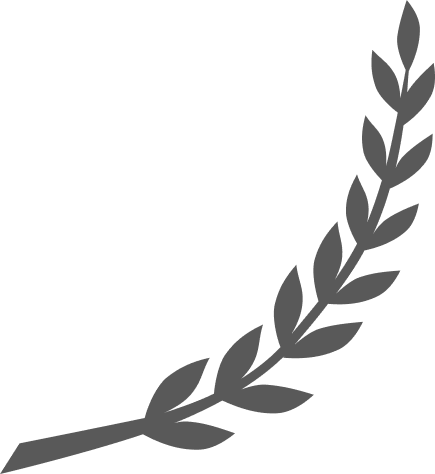
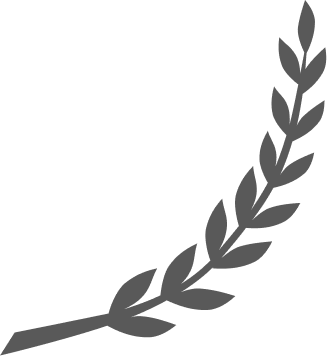
UI

diff --git a/RootNomicsGame/UI/HUD.cs b/RootNomicsGame/UI/HUD.cs
@@ -3,6 +3,7 @@ using Haiku.Audio;
 using Haiku.MathExtensions;
 using Haiku.MonoGameUI;
 using Haiku.MonoGameUI.Layouts;
+using Haiku.MonoGameUI.LayoutStrategies;
 using Microsoft.Xna.Framework;
 using Newtonsoft.Json.Linq;
 using RootNomicsGame.Simulation;
@@ -14,6 +15,7 @@ using System.Text;
 using System.Threading.Tasks;
 using TexturePackerLoader;
 using TexturePackerMonoGameDefinitions;
+using static System.Net.Mime.MediaTypeNames;
 
 namespace RootNomicsGame.UI
 {
@@ -119,19 +121,19 @@ namespace RootNomicsGame.UI
                 && state.TotalWealth <= 0)
             {
                 ShowBadModalOptions(
-    "Disaster! You passed on and all your plants are dead. Your family is left destitute, your remains thrown to the dogs and your scion sold to the poorhouse.",
+    "Disaster!\n\n You passed on and all your plants are dead. Your family is left destitute, your remains thrown to the dogs and your scion sold to the poorhouse.\n\n",
     new ModalAction("Noooooo!!!", quit));
             }
             else if (playerPanel.Health <= 0)
             {
                 ShowBadModalOptions(
-                    "You passed on. Your remains decompose into the earth, sustaining the roots of the plants you so dearly love. Will your scion continue your legacy?",
+                    "You passed on.\n\n Your remains decompose into the earth, sustaining the roots of the plants you so dearly love.\n\n Will your scion continue your legacy?\n\n",
                     new ModalAction("Yes", restart), new ModalAction("No", quit));
             }
             else if (state.TotalWealth <= 0)
             {
                 ShowBadModalOptions(
-                    "All your plants have died. Try again?",
+                    "All your plants have died.\n\n Try again?\n\n",
                     new ModalAction("Yes", restart), new ModalAction("No", quit));
             }
             else
@@ -141,7 +143,7 @@ namespace RootNomicsGame.UI
                 if (turnCount > 16)
                 {
                     ShowModalOptions(
-    "Congratulations! You cheated death and your garden is the talk of the town! Relive the glory?",
+    "Congratulations!\n\n You cheated death and your garden is the talk of the town!\n\n Relive the glory?\n\n",
     new ModalAction("Yes", restart), new ModalAction("No", quit));
                 }
             }
@@ -164,7 +166,25 @@ namespace RootNomicsGame.UI
         {
             LinearLayout dialog = CreateModalOptions(message, modalActions);
 
-            ShowDialog(dialog, UITextureAtlas.ModalBackground);
+            var containerFrame = new Rectangle(0, 0, 1080, 768);
+            var topLeftFrame = new Rectangle(0, 0, 327, 356);
+            var bottomRightFrame = new Rectangle(1080 - 327, 768 - 356, 327, 356);
+
+            var container = new Layout(containerFrame);
+            var topLeft = new Panel(topLeftFrame)
+            {
+                Texture = uiTextureAtlas.Sprite(UITextureAtlas.IconWreathTopLeft),
+            };
+            var bottomRight = new Panel(bottomRightFrame)
+            {
+                Texture = uiTextureAtlas.Sprite(UITextureAtlas.IconWreathBottomRight),
+            };
+
+            container.AddChild(topLeft);
+            container.AddChild(bottomRight);
+            container.AddChild(dialog);
+            dialog.CenterInParent();
+            ShowDialog(container, UITextureAtlas.ModalBackground);
         }
 
         public void ShowBadModalOptions(string message, params ModalAction[] modalActions)
@@ -186,7 +206,7 @@ namespace RootNomicsGame.UI
 
         void AddMessage(Layout dialog, string message)
         {
-            var messageLayout = LinearLayout.ForText(message, BodyFont, ModalWidth);
+            var messageLayout = LinearLayout.ForText(message, HeadingFont, ModalWidth);
 
             dialog.AddChild(messageLayout);
             messageLayout.CenterXInParent();
@@ -197,6 +217,7 @@ namespace RootNomicsGame.UI
             LinearLayout optionsLayout = new LinearLayout(Rectangle.Empty, Orientation.Horizontal, ModalPanelSpacing, ModalPanelPadding);
             var availableOptionWidth = ModalWidth - ModalPanelSpacing * (modalActions.Length - 1) - ModalPanelPadding * 2;
             var optionWidth = availableOptionWidth / modalActions.Length;
+            var first = true;
 
             foreach (var option in modalActions)
             {
@@ -208,6 +229,34 @@ namespace RootNomicsGame.UI
                 {
                     IsFocusable = true
                 };
+                if (first)
+                {
+                    var foreground = new Panel(new Rectangle(), new LinearLayoutStrategy(Orientation.Horizontal, 16))
+                    {
+                        BackgroundColor = Color.Transparent,
+                    };
+                    var leaf = new Panel(new Rectangle(0, 0, 22, 28))
+                    {
+                        Texture = uiTextureAtlas.Sprite(UITextureAtlas.IconLeafLightBackground),
+                    };
+                    var stringSize = MainFont.MeasureString(option.Title);
+                    var width = (int)stringSize.X;
+                    var height = (int)stringSize.Y;
+                    var label = new Label(0, 0, (int)width, (int)height)
+                    {
+                        Font = MainFont,
+                        Text = option.Title,
+                        TextColor = Color.Black,
+                        BackgroundColor = Color.Transparent,
+                    };
+
+                    foreground.AddChildren(new Layout[] {leaf, label});
+                    label.CenterYInParent();
+                    button.SetForegroundPanel(foreground);
+                    foreground.CenterInParent();
+
+                    first = false;
+                }
                 button.SetBackground(
                     uiTextureAtlas.NinePatch(UITextureAtlas.ButtonNormal),
                     uiTextureAtlas.NinePatch(UITextureAtlas.ButtonActive),
@@ -220,13 +269,13 @@ namespace RootNomicsGame.UI
             return optionsLayout;
         }
 
-        void ShowDialog(LinearLayout dialog, string spriteName)
+        void ShowDialog(Layout dialog, string spriteName)
         {
             Panel overlay = new Panel(Frame);
-            overlay.BackgroundColor = Color.Black * 0.75f;
+            overlay.BackgroundColor = Color.Black * 0.85f;
             Panel dialogBackground = new Panel()
             {
-                Texture = uiTextureAtlas.TiledObliqueNinePatch(spriteName, 22, 14),
+                Texture = uiTextureAtlas.Sprite(spriteName),
             };
 
             dialogBackground.Frame = new Rectangle(

diff --git a/Haiku.MonoGameUI/Layouts/LinearLayout.cs b/Haiku.MonoGameUI/Layouts/LinearLayout.cs
@@ -64,7 +64,8 @@ namespace Haiku.MonoGameUI.Layouts
         {
             var result = new List<Layout>();
             var lines = text.Split('\n');
-            float spaceWidth = font.MeasureString(" ").X;
+            var fontSize = font.MeasureString(" ");
+            float spaceWidth = fontSize.X;
 
             foreach (var line in lines)
             {
@@ -114,6 +115,12 @@ namespace Haiku.MonoGameUI.Layouts
                 {
                     result.Add(CreateLine(displayLine, font, width, alignment, labelCreator));
                 }
+                else
+                {
+                    var layout = CreateLine(displayLine, font, width, alignment, labelCreator);
+                    layout.Frame = new Rectangle(layout.Frame.X, layout.Frame.Y, layout.Frame.Width, (int)Math.Ceiling(fontSize.Y));
+                    result.Add(layout);
+                }
             }
 
             return result;
@@ -130,7 +137,8 @@ namespace Haiku.MonoGameUI.Layouts
             label.Text = displayLine;
             var lineLabel = new TextPanel(new Rectangle(0, 0, width, 0), label, alignment)
             {
-                Font = font
+                Font = font,
+                TextColor = new Color(0xF5F5DC),
             };
             lineLabel.SizeToFit();
 

diff --git a/RootNomicsGame/UI/PlayerPanel.cs b/RootNomicsGame/UI/PlayerPanel.cs
@@ -31,7 +31,7 @@ namespace RootNomicsGame.UI
             }))
         {
             Instance = this;
-            BackgroundColor = Color.Tomato;
+            BackgroundColor = new Color(0xF5F5DC);
 
             var healthTitle = new Label("Health:", BodyFont);
             Health = 100;
@@ -50,9 +50,9 @@ namespace RootNomicsGame.UI
 
             GrowButton = new Button();
             GrowButton.SetBackground(
-                uiTextureAtlas.NinePatch(UITextureAtlas.ButtonNormal),
-                uiTextureAtlas.NinePatch(UITextureAtlas.ButtonActive),
-                uiTextureAtlas.NinePatch(UITextureAtlas.ButtonSelected));
+                uiTextureAtlas.NinePatch(UITextureAtlas.ButtonRedNormal),
+                uiTextureAtlas.NinePatch(UITextureAtlas.ButtonRedActive),
+                uiTextureAtlas.NinePatch(UITextureAtlas.ButtonRedSelected));
             growLayout.AddChild(GrowButton);
             GrowButton.Frame = new Rectangle(0, 0, 112, 44);
             GrowButton.SetForeground("End Turn");

diff --git a/RootNomicsGame/UI/LinkedSliders.cs b/RootNomicsGame/UI/LinkedSliders.cs
@@ -21,7 +21,7 @@ namespace RootNomicsGame.UI
         internal LinkedSliders(Rectangle frame, IDictionary<string, string> sliderTypeNames, int total)
             : base(frame, new LinearLayoutStrategy(Orientation.Vertical, 8, 16, 16))
         {
-            BackgroundColor = Color.MintCream;
+            BackgroundColor = new Color(0xF5F5DC);
 
             sliders = new Dictionary<string, LinkedSlider>();
             foreach (var typeNames in sliderTypeNames)

diff --git a/RootNomicsGame/UI/ConsumptionPanel.cs b/RootNomicsGame/UI/ConsumptionPanel.cs
@@ -21,7 +21,7 @@ namespace RootNomicsGame.UI
         public ConsumptionPanel(Rectangle frame, SpriteSheet uiTextureAtlas)
             : base(frame, new LinearLayoutStrategy(Orientation.Vertical, 8, 16))
         {
-            BackgroundColor = Color.AntiqueWhite;
+            BackgroundColor = new Color(0xF5F5DC);
 
             var slidersFrame = new Rectangle(0, 0, frame.Width, frame.Height);
             var consumption = new Dictionary<string, string>

diff --git a/RootNomicsGame/UITextureAtlas.cs b/RootNomicsGame/UITextureAtlas.cs
@@ -4,7 +4,7 @@
  * Contains references to each image within the sprite sheet.
  *
  * https://www.codeandweb.com/texturepacker
- * $TexturePacker:SmartUpdate:072121cd77a2567ff6cebc620955790c:13b88d71364d4106add9fd03e80eef33:ab4ed61aee9c20e10cf08a931d1d0a05$
+ * $TexturePacker:SmartUpdate:6a171ec14c3b9d0ffdd6e209ce27d206:2f3c42eee4597f693632ea2499f697a9:ab4ed61aee9c20e10cf08a931d1d0a05$
  *
  */
 namespace TexturePackerMonoGameDefinitions

diff --git a/RootNomicsGame/UI/StatsPanel.cs b/RootNomicsGame/UI/StatsPanel.cs
@@ -25,7 +25,7 @@ namespace RootNomicsGame.UI
                 ItemAlignment = ItemAlignment.Center,
             }))
         {
-            BackgroundColor = Color.WhiteSmoke;
+            BackgroundColor = new Color(0xF5F5DC);
 
             var foodLayout = new LinearLayout(Orientation.Horizontal, 4);
             var foodTitle = new Label("Nutrients:", BodyFont);
